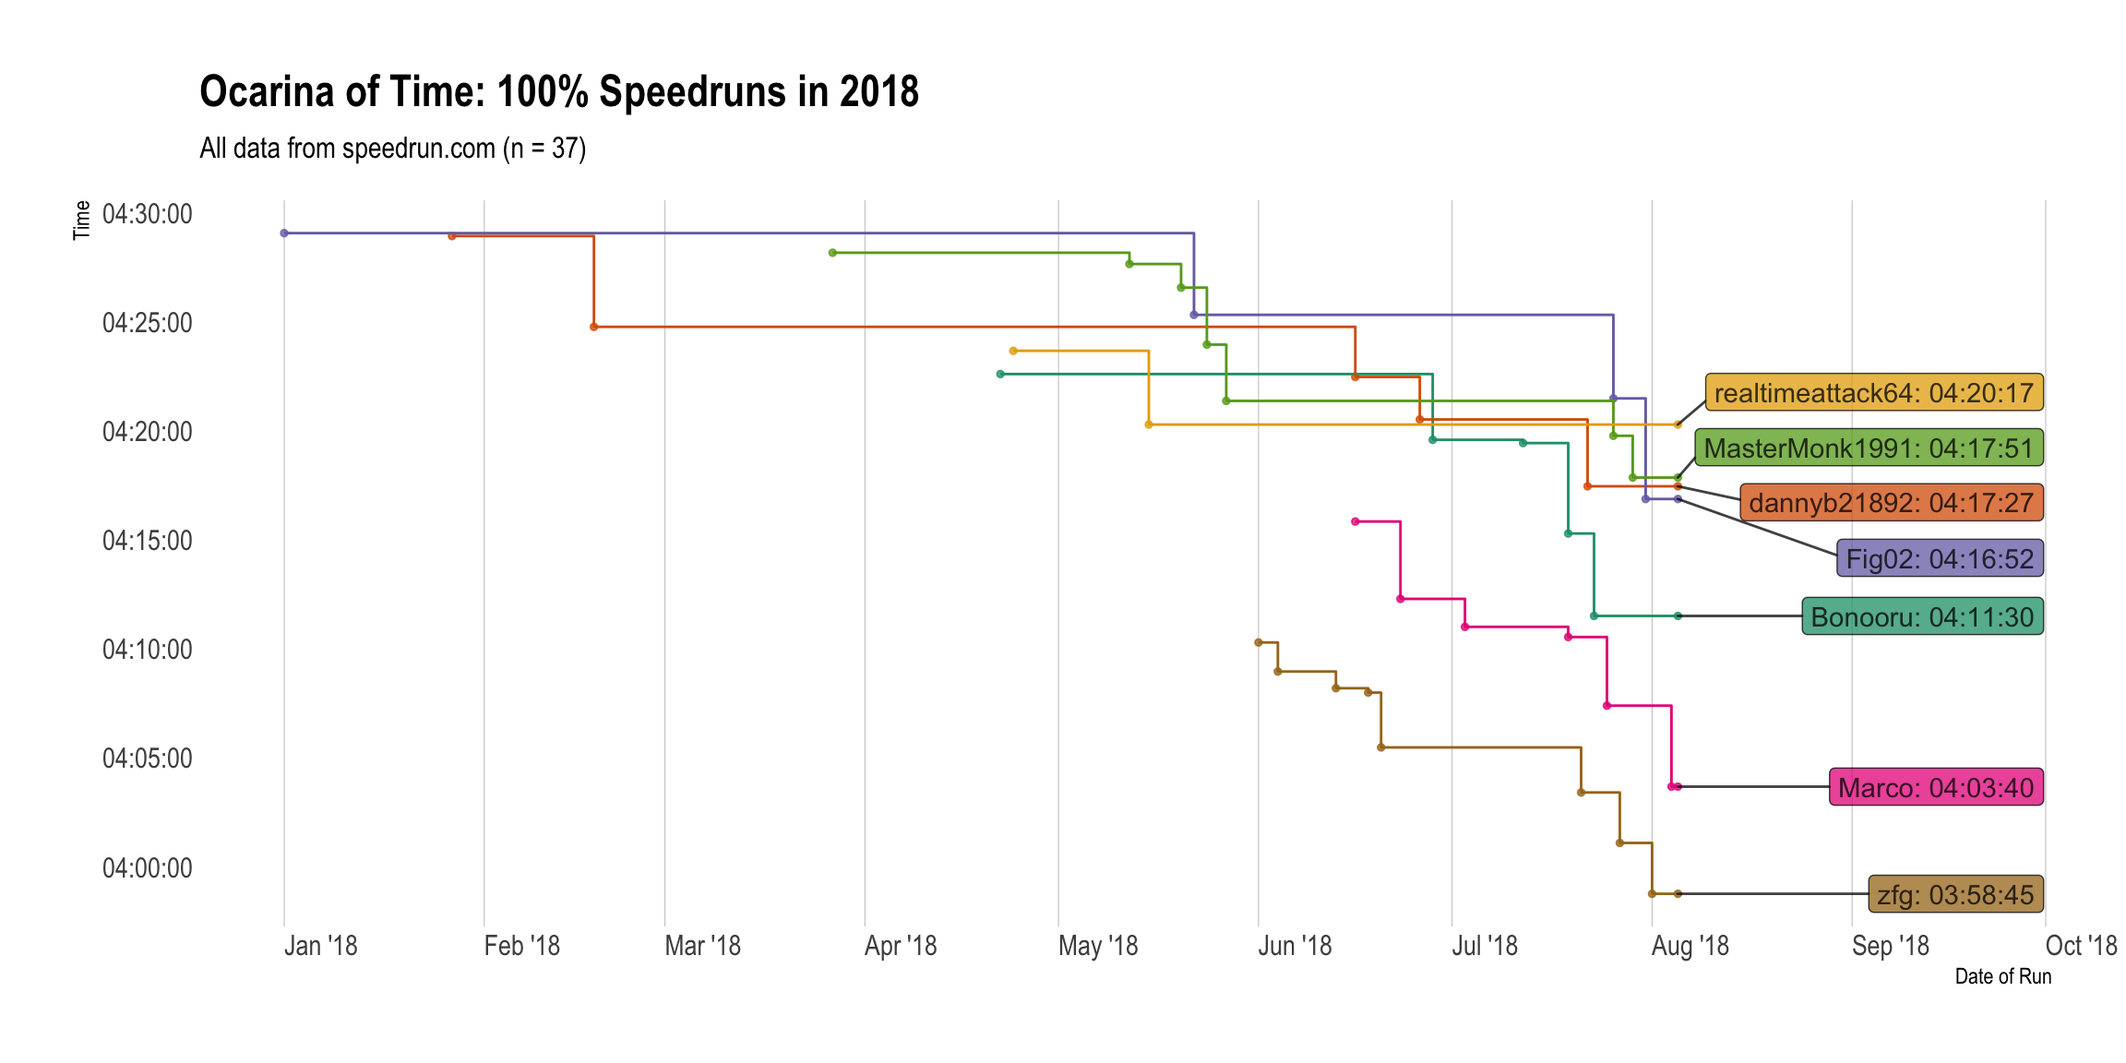
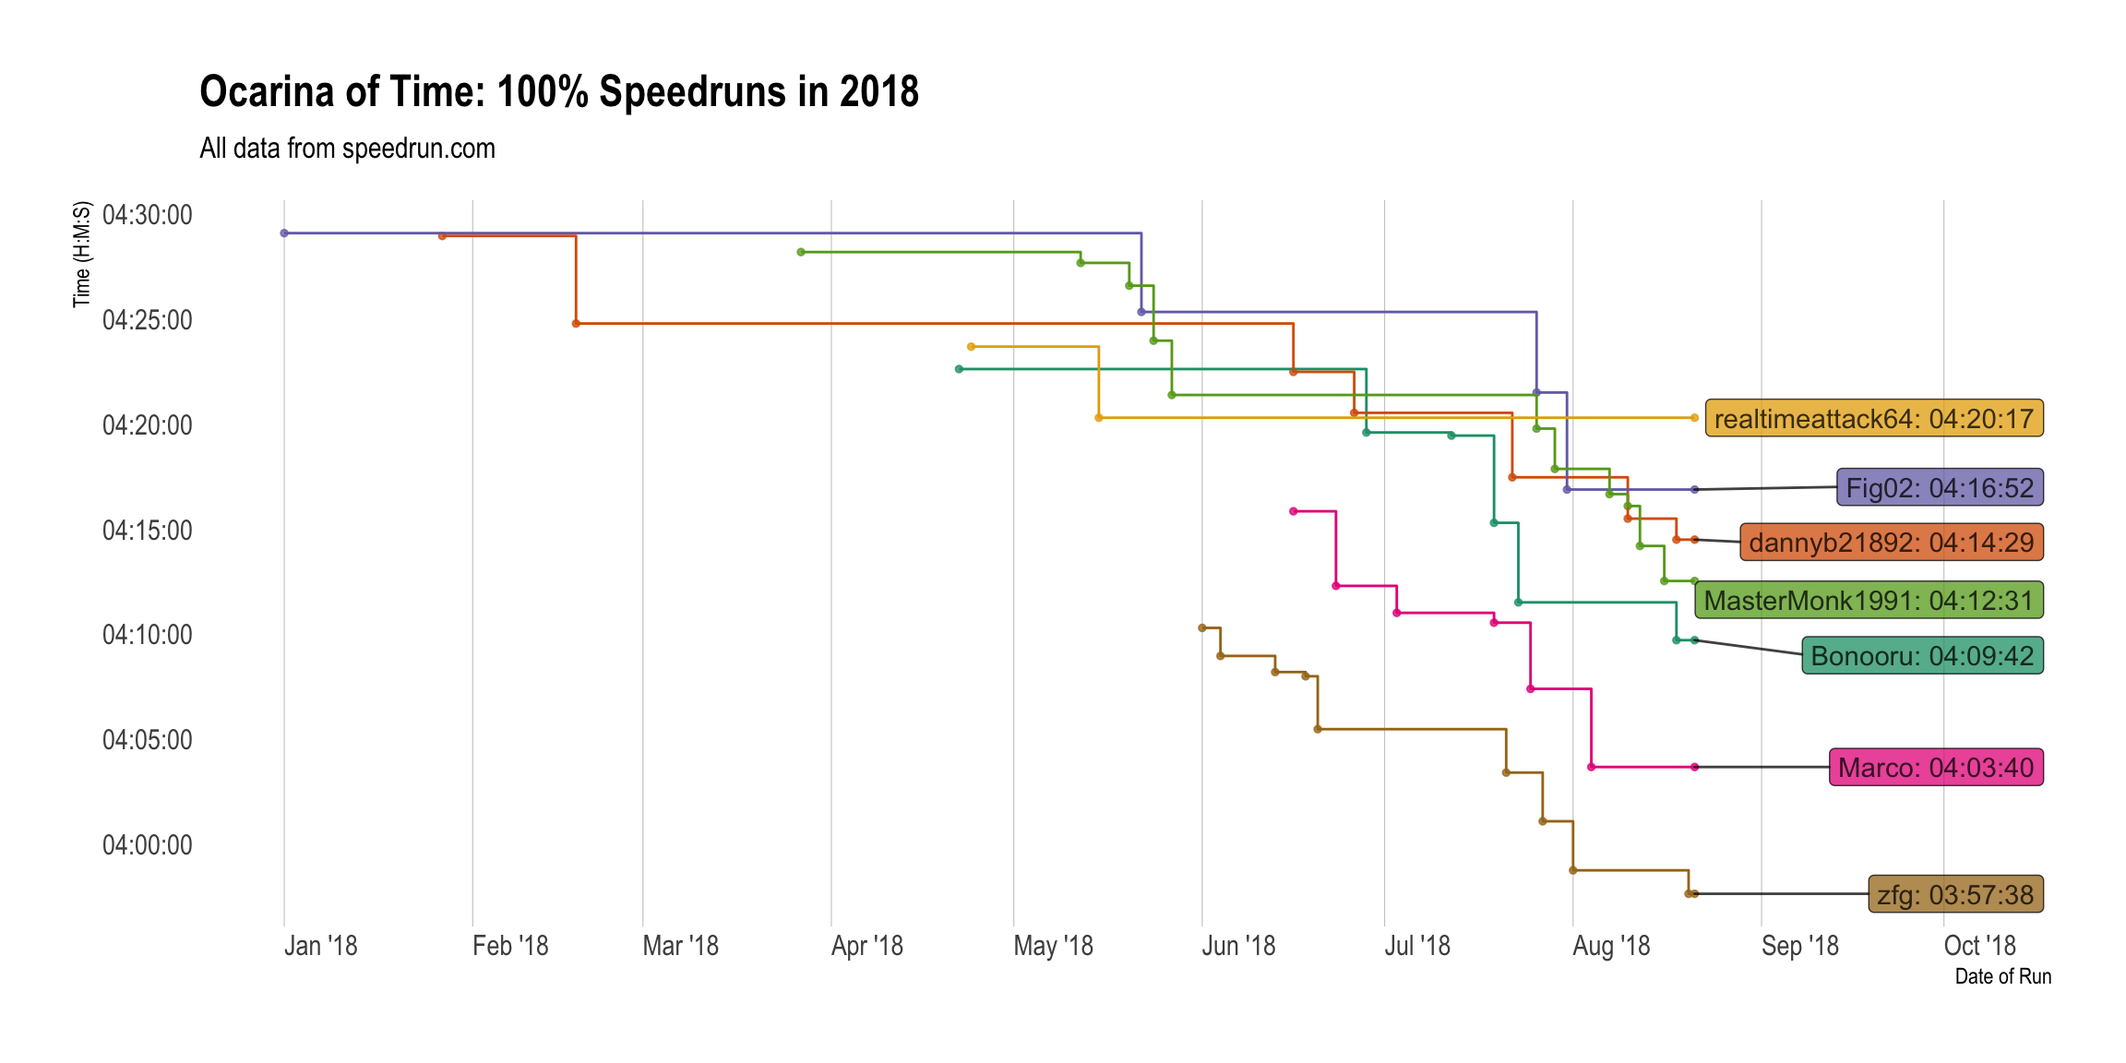
Rebuild everything

diff --git a/docs/articles/ocarina-of-time-100-.html b/docs/articles/ocarina-of-time-100-.html
@@ -82,7 +82,7 @@
       <h1>Ocarina of Time 100%</h1>
                         <h4 class="author">Lukas Burk</h4>
             
-            <h4 class="date">2018-08-05</h4>
+            <h4 class="date">2018-08-21</h4>
       
       <small class="dont-index">Source: <a href="https://github.com/jemus42/speedrunr/blob/master/vignettes/ocarina-of-time-100-.Rmd"><code>vignettes/ocarina-of-time-100-.Rmd</code></a></small>
       <div class="hidden name"><code>ocarina-of-time-100-.Rmd</code></div>
@@ -134,26 +134,26 @@
 <a class="sourceLine" id="cb3-4" data-line-number="4">oot100 &lt;-<span class="st"> </span><span class="kw"><a href="../reference/get_runs.html">get_runs</a></span>(<span class="dt">game =</span> <span class="st">"j1l9qz1g"</span>, <span class="dt">category =</span> <span class="st">"q255jw2o"</span>, <span class="dt">max =</span> <span class="ot">Inf</span>)</a></code></pre></div>
 <p>Note that I’m useing <code>max = Inf</code> to make sure I get <em>all</em> the runs.</p>
 <div class="sourceCode" id="cb4"><pre class="sourceCode r"><code class="sourceCode r"><a class="sourceLine" id="cb4-1" data-line-number="1"><span class="kw">str</span>(oot100)</a>
-<a class="sourceLine" id="cb4-2" data-line-number="2"><span class="co">#&gt; Classes 'tbl_df', 'tbl' and 'data.frame':    505 obs. of  22 variables:</span></a>
-<a class="sourceLine" id="cb4-3" data-line-number="3"><span class="co">#&gt;  $ id             : chr  "y89rqq1m" "y2q5l35y" "m3o52kwm" "y892o4dm" ...</span></a>
-<a class="sourceLine" id="cb4-4" data-line-number="4"><span class="co">#&gt;  $ weblink        : chr  "https://www.speedrun.com/oot/run/y89rqq1m" "https://www.speedrun.com/oot/run/y2q5l35y" "https://www.speedrun.com/oot/run/m3o52kwm" "https://www.speedrun.com/oot/run/y892o4dm" ...</span></a>
+<a class="sourceLine" id="cb4-2" data-line-number="2"><span class="co">#&gt; Classes 'tbl_df', 'tbl' and 'data.frame':    520 obs. of  22 variables:</span></a>
+<a class="sourceLine" id="cb4-3" data-line-number="3"><span class="co">#&gt;  $ id             : chr  "z5101qgm" "y89v3n5m" "zg7x36vz" "y6prk36m" ...</span></a>
+<a class="sourceLine" id="cb4-4" data-line-number="4"><span class="co">#&gt;  $ weblink        : chr  "https://www.speedrun.com/oot/run/z5101qgm" "https://www.speedrun.com/oot/run/y89v3n5m" "https://www.speedrun.com/oot/run/zg7x36vz" "https://www.speedrun.com/oot/run/y6prk36m" ...</span></a>
 <a class="sourceLine" id="cb4-5" data-line-number="5"><span class="co">#&gt;  $ game           : chr  "j1l9qz1g" "j1l9qz1g" "j1l9qz1g" "j1l9qz1g" ...</span></a>
 <a class="sourceLine" id="cb4-6" data-line-number="6"><span class="co">#&gt;  $ level          : logi  NA NA NA NA NA NA ...</span></a>
 <a class="sourceLine" id="cb4-7" data-line-number="7"><span class="co">#&gt;  $ category       : chr  "q255jw2o" "q255jw2o" "q255jw2o" "q255jw2o" ...</span></a>
-<a class="sourceLine" id="cb4-8" data-line-number="8"><span class="co">#&gt;  $ videos         : chr  "https://www.twitch.tv/cma_jp/video/293368527" "https://www.youtube.com/watch?v=KC5nDHK9ipY" "https://www.youtube.com/watch?v=N8vs_cCeekM" "https://youtu.be/tgb6vU3KAgE" ...</span></a>
+<a class="sourceLine" id="cb4-8" data-line-number="8"><span class="co">#&gt;  $ videos         : chr  "https://www.youtube.com/watch?v=zvEndHCMsTI" "https://youtu.be/xbkHEIH64kw" "https://youtu.be/I5XIjPs-WgI" "https://www.twitch.tv/videos/298946749" ...</span></a>
 <a class="sourceLine" id="cb4-9" data-line-number="9"><span class="co">#&gt;  $ status         : chr  "verified" "verified" "verified" "verified" ...</span></a>
-<a class="sourceLine" id="cb4-10" data-line-number="10"><span class="co">#&gt;  $ comment        : chr  "So bad run. 7th dampe" "Video footage was cut during KD's fight, I messed up with OBS while trying to stop my \"footage only\" recordin"| __truncated__ "1st try dampe" "6th dampe, decent fishing" ...</span></a>
-<a class="sourceLine" id="cb4-11" data-line-number="11"><span class="co">#&gt;  $ player_id      : chr  "68wq9z8g" "v819rrxp" "e8e5v680" "zxz9r448" ...</span></a>
-<a class="sourceLine" id="cb4-12" data-line-number="12"><span class="co">#&gt;  $ player_url     : chr  "https://www.speedrun.com/user/Cma" "https://www.speedrun.com/user/Marco" "https://www.speedrun.com/user/zfg" "https://www.speedrun.com/user/Fig02" ...</span></a>
-<a class="sourceLine" id="cb4-13" data-line-number="13"><span class="co">#&gt;  $ player_name    : chr  "Cma" "Marco" "zfg" "Fig02" ...</span></a>
+<a class="sourceLine" id="cb4-10" data-line-number="10"><span class="co">#&gt;  $ comment        : chr  "1st try dampe" "Missed the slash on Ganon, retimed to be 31 seconds, not 29. 6th try Dampe" NA "poop, ill learn jabu ww now" ...</span></a>
+<a class="sourceLine" id="cb4-11" data-line-number="11"><span class="co">#&gt;  $ player_id      : chr  "e8e5v680" "1xym2kmx" "18v6gkvx" "qjn35kwx" ...</span></a>
+<a class="sourceLine" id="cb4-12" data-line-number="12"><span class="co">#&gt;  $ player_url     : chr  "https://www.speedrun.com/user/zfg" "https://www.speedrun.com/user/MasterMonk1991" "https://www.speedrun.com/user/ClaireLynn" "https://www.speedrun.com/user/dannyb21892" ...</span></a>
+<a class="sourceLine" id="cb4-13" data-line-number="13"><span class="co">#&gt;  $ player_name    : chr  "zfg" "MasterMonk1991" "ClaireLynn" "dannyb21892" ...</span></a>
 <a class="sourceLine" id="cb4-14" data-line-number="14"><span class="co">#&gt;  $ player_role    : chr  "user" "user" "user" "user" ...</span></a>
-<a class="sourceLine" id="cb4-15" data-line-number="15"><span class="co">#&gt;  $ player_signup  : POSIXct, format: "2015-02-20 17:09:08" "2015-02-17 18:25:39" ...</span></a>
-<a class="sourceLine" id="cb4-16" data-line-number="16"><span class="co">#&gt;  $ date           : Date, format: "2018-08-05" "2018-08-04" ...</span></a>
-<a class="sourceLine" id="cb4-17" data-line-number="17"><span class="co">#&gt;  $ submitted      : POSIXct, format: "2018-08-05 10:25:56" "2018-08-04 04:03:15" ...</span></a>
-<a class="sourceLine" id="cb4-18" data-line-number="18"><span class="co">#&gt;  $ time_primary   : int  16212 14620 14325 15412 16231 15471 14465 15689 15586 14843 ...</span></a>
-<a class="sourceLine" id="cb4-19" data-line-number="19"><span class="co">#&gt;  $ time_realtime  : int  16212 14620 14325 15412 16231 15471 14465 15689 15586 14843 ...</span></a>
+<a class="sourceLine" id="cb4-15" data-line-number="15"><span class="co">#&gt;  $ player_signup  : POSIXct, format: "2015-02-17 03:55:57" "2017-01-08 21:04:08" ...</span></a>
+<a class="sourceLine" id="cb4-16" data-line-number="16"><span class="co">#&gt;  $ date           : Date, format: "2018-08-20" "2018-08-16" ...</span></a>
+<a class="sourceLine" id="cb4-17" data-line-number="17"><span class="co">#&gt;  $ submitted      : POSIXct, format: "2018-08-21 04:27:10" "2018-08-19 21:35:59" ...</span></a>
+<a class="sourceLine" id="cb4-18" data-line-number="18"><span class="co">#&gt;  $ time_primary   : int  14258 15151 17841 15269 16777 14982 15251 17087 25422 15329 ...</span></a>
+<a class="sourceLine" id="cb4-19" data-line-number="19"><span class="co">#&gt;  $ time_realtime  : int  14258 15151 17841 15269 16777 14982 15251 17087 25422 15329 ...</span></a>
 <a class="sourceLine" id="cb4-20" data-line-number="20"><span class="co">#&gt;  $ time_ingame    : int  0 0 0 0 0 0 0 0 0 0 ...</span></a>
-<a class="sourceLine" id="cb4-21" data-line-number="21"><span class="co">#&gt;  $ time_hms       : 'hms' num  04:30:12 04:03:40 03:58:45 04:16:52 ...</span></a>
+<a class="sourceLine" id="cb4-21" data-line-number="21"><span class="co">#&gt;  $ time_hms       : 'hms' num  03:57:38 04:12:31 04:57:21 04:14:29 ...</span></a>
 <a class="sourceLine" id="cb4-22" data-line-number="22"><span class="co">#&gt;   ..- attr(*, "units")= chr "secs"</span></a>
 <a class="sourceLine" id="cb4-23" data-line-number="23"><span class="co">#&gt;  $ system_platform: chr  "nzelreqp" "nzelreqp" "nzelreqp" "nzelreqp" ...</span></a>
 <a class="sourceLine" id="cb4-24" data-line-number="24"><span class="co">#&gt;  $ system_emulated: logi  FALSE FALSE FALSE FALSE FALSE FALSE ...</span></a>
@@ -182,72 +182,72 @@
 </tr></thead>
 <tbody>
 <tr class="odd">
+<td align="left">03:57:38</td>
+<td align="left">zfg</td>
+<td align="left">2018-08-20</td>
+<td align="left">Wii Virtual Console</td>
+<td align="left">JPN / NTSC</td>
+</tr>
+<tr class="even">
 <td align="left">03:58:45</td>
 <td align="left">zfg</td>
 <td align="left">2018-08-01</td>
 <td align="left">Wii Virtual Console</td>
 <td align="left">JPN / NTSC</td>
 </tr>
-<tr class="even">
+<tr class="odd">
 <td align="left">04:01:05</td>
 <td align="left">zfg</td>
 <td align="left">2018-07-27</td>
 <td align="left">Wii Virtual Console</td>
 <td align="left">JPN / NTSC</td>
 </tr>
-<tr class="odd">
+<tr class="even">
 <td align="left">04:03:24</td>
 <td align="left">zfg</td>
 <td align="left">2018-07-21</td>
 <td align="left">Wii Virtual Console</td>
 <td align="left">JPN / NTSC</td>
 </tr>
-<tr class="even">
+<tr class="odd">
 <td align="left">04:03:40</td>
 <td align="left">Marco</td>
 <td align="left">2018-08-04</td>
 <td align="left">Wii Virtual Console</td>
 <td align="left">JPN / NTSC</td>
 </tr>
-<tr class="odd">
+<tr class="even">
 <td align="left">04:05:28</td>
 <td align="left">zfg</td>
 <td align="left">2018-06-20</td>
 <td align="left">Wii Virtual Console</td>
 <td align="left">JPN / NTSC</td>
 </tr>
-<tr class="even">
+<tr class="odd">
 <td align="left">04:07:23</td>
 <td align="left">Marco</td>
 <td align="left">2018-07-25</td>
 <td align="left">Wii Virtual Console</td>
 <td align="left">JPN / NTSC</td>
 </tr>
-<tr class="odd">
+<tr class="even">
 <td align="left">04:07:59</td>
 <td align="left">zfg</td>
 <td align="left">2018-06-18</td>
 <td align="left">Wii Virtual Console</td>
 <td align="left">JPN / NTSC</td>
 </tr>
-<tr class="even">
+<tr class="odd">
 <td align="left">04:08:11</td>
 <td align="left">zfg</td>
 <td align="left">2018-06-13</td>
 <td align="left">Wii Virtual Console</td>
 <td align="left">JPN / NTSC</td>
 </tr>
-<tr class="odd">
+<tr class="even">
 <td align="left">04:08:57</td>
 <td align="left">zfg</td>
 <td align="left">2018-06-04</td>
-<td align="left">Wii Virtual Console</td>
-<td align="left">JPN / NTSC</td>
-</tr>
-<tr class="even">
-<td align="left">04:10:17</td>
-<td align="left">zfg</td>
-<td align="left">2018-06-01</td>
 <td align="left">Wii Virtual Console</td>
 <td align="left">JPN / NTSC</td>
 </tr>
@@ -317,8 +317,8 @@
 <a class="sourceLine" id="cb7-29" data-line-number="29"><span class="st">      </span><span class="kw"><a href="http://www.rdocumentation.org/packages/ggplot2/topics/scale_brewer">scale_color_brewer</a></span>(<span class="dt">palette =</span> <span class="st">"Dark2"</span>, <span class="dt">guide =</span> F) <span class="op">+</span></a>
 <a class="sourceLine" id="cb7-30" data-line-number="30"><span class="st">      </span><span class="kw"><a href="http://www.rdocumentation.org/packages/ggplot2/topics/scale_brewer">scale_fill_brewer</a></span>(<span class="dt">palette =</span> <span class="st">"Dark2"</span>, <span class="dt">guide =</span> F) <span class="op">+</span></a>
 <a class="sourceLine" id="cb7-31" data-line-number="31"><span class="st">      </span><span class="kw"><a href="http://www.rdocumentation.org/packages/ggplot2/topics/labs">labs</a></span>(<span class="dt">title =</span> <span class="st">"Ocarina of Time: 100% Speedruns in 2018"</span>,</a>
-<a class="sourceLine" id="cb7-32" data-line-number="32">           <span class="dt">subtitle =</span> <span class="kw">paste0</span>(<span class="st">"All data from speedrun.com (n = "</span>, <span class="kw">nrow</span>(tmp), <span class="st">")"</span>),</a>
-<a class="sourceLine" id="cb7-33" data-line-number="33">           <span class="dt">x =</span> <span class="st">"Date of Run"</span>, <span class="dt">y =</span> <span class="st">"Time"</span>) <span class="op">+</span></a>
+<a class="sourceLine" id="cb7-32" data-line-number="32">           <span class="dt">subtitle =</span> <span class="st">"All data from speedrun.com"</span>,</a>
+<a class="sourceLine" id="cb7-33" data-line-number="33">           <span class="dt">x =</span> <span class="st">"Date of Run"</span>, <span class="dt">y =</span> <span class="st">"Time (H:M:S)"</span>) <span class="op">+</span></a>
 <a class="sourceLine" id="cb7-34" data-line-number="34"><span class="st">      </span><span class="kw"><a href="http://www.rdocumentation.org/packages/hrbrthemes/topics/theme_ipsum">theme_ipsum</a></span>(<span class="dt">grid =</span> <span class="st">"X"</span>) <span class="op">+</span><span class="st"> </span><span class="kw"><a href="http://www.rdocumentation.org/packages/ggplot2/topics/theme">theme</a></span>(<span class="dt">axis.text.x =</span> <span class="kw"><a href="http://www.rdocumentation.org/packages/ggplot2/topics/element">element_text</a></span>(<span class="dt">hjust =</span> <span class="dv">0</span>))</a>
 <a class="sourceLine" id="cb7-35" data-line-number="35">  }</a></code></pre></div>
 <p><img src="ocarina-of-time-100-_files/figure-html/oot_100_recents-1.png" width="1152"></p>

diff --git a/docs/index.html b/docs/index.html
@@ -5,13 +5,13 @@
 <meta charset="utf-8">
 <meta http-equiv="X-UA-Compatible" content="IE=edge">
 <meta name="viewport" content="width=device-width, initial-scale=1.0">
-<title>Access Data From 'speedrun.com' • speedrunr</title>
+<title>Access Data from 'speedrun.com' • speedrunr</title>
 <!-- jquery --><script src="https://code.jquery.com/jquery-3.1.0.min.js" integrity="sha384-nrOSfDHtoPMzJHjVTdCopGqIqeYETSXhZDFyniQ8ZHcVy08QesyHcnOUpMpqnmWq" crossorigin="anonymous"></script><!-- Bootstrap --><link href="https://maxcdn.bootstrapcdn.com/bootstrap/3.3.7/css/bootstrap.min.css" rel="stylesheet" integrity="sha384-BVYiiSIFeK1dGmJRAkycuHAHRg32OmUcww7on3RYdg4Va+PmSTsz/K68vbdEjh4u" crossorigin="anonymous">
 <script src="https://maxcdn.bootstrapcdn.com/bootstrap/3.3.7/js/bootstrap.min.js" integrity="sha384-Tc5IQib027qvyjSMfHjOMaLkfuWVxZxUPnCJA7l2mCWNIpG9mGCD8wGNIcPD7Txa" crossorigin="anonymous"></script><!-- Font Awesome icons --><link href="https://maxcdn.bootstrapcdn.com/font-awesome/4.6.3/css/font-awesome.min.css" rel="stylesheet" integrity="sha384-T8Gy5hrqNKT+hzMclPo118YTQO6cYprQmhrYwIiQ/3axmI1hQomh7Ud2hPOy8SP1" crossorigin="anonymous">
 <!-- clipboard.js --><script src="https://cdnjs.cloudflare.com/ajax/libs/clipboard.js/1.7.1/clipboard.min.js" integrity="sha384-cV+rhyOuRHc9Ub/91rihWcGmMmCXDeksTtCihMupQHSsi8GIIRDG0ThDc3HGQFJ3" crossorigin="anonymous"></script><!-- sticky kit --><script src="https://cdnjs.cloudflare.com/ajax/libs/sticky-kit/1.1.3/sticky-kit.min.js" integrity="sha256-c4Rlo1ZozqTPE2RLuvbusY3+SU1pQaJC0TjuhygMipw=" crossorigin="anonymous"></script><!-- pkgdown --><link href="pkgdown.css" rel="stylesheet">
-<script src="pkgdown.js"></script><meta property="og:title" content="Access Data From 'speedrun.com'">
-<meta property="og:description" content="This package provides wrappers for the 'speedrun.com' API to make it easier to identify
-    the ids of games and categories which are required to access run data.">
+<script src="pkgdown.js"></script><meta property="og:title" content="Access Data from 'speedrun.com'">
+<meta property="og:description" content="Wrappers for the 'speedrun.com' API to make it easy
+    to access run data.">
 <meta name="twitter:card" content="summary">
 <!-- mathjax --><script src="https://mathjax.rstudio.com/latest/MathJax.js?config=TeX-AMS-MML_HTMLorMML"></script><!--[if lt IE 9]>
 <script src="https://oss.maxcdn.com/html5shiv/3.7.3/html5shiv.min.js"></script>
@@ -330,49 +330,59 @@ Let’s get started:</p>
 </tr></thead>
 <tbody>
 <tr class="odd">
+<td align="left">2018-08-21 04:27:10</td>
+<td align="left">03:57:38</td>
+<td align="left"><a href="https://www.speedrun.com/user/zfg" class="uri">https://www.speedrun.com/user/zfg</a></td>
+</tr>
+<tr class="even">
 <td align="left">2018-08-02 02:15:56</td>
 <td align="left">03:58:45</td>
 <td align="left"><a href="https://www.speedrun.com/user/zfg" class="uri">https://www.speedrun.com/user/zfg</a></td>
 </tr>
-<tr class="even">
+<tr class="odd">
 <td align="left">2018-07-28 05:47:32</td>
 <td align="left">04:01:05</td>
 <td align="left"><a href="https://www.speedrun.com/user/zfg" class="uri">https://www.speedrun.com/user/zfg</a></td>
 </tr>
-<tr class="odd">
+<tr class="even">
 <td align="left">2018-07-22 03:15:39</td>
 <td align="left">04:03:24</td>
 <td align="left"><a href="https://www.speedrun.com/user/zfg" class="uri">https://www.speedrun.com/user/zfg</a></td>
 </tr>
-<tr class="even">
+<tr class="odd">
 <td align="left">2018-08-04 04:03:15</td>
 <td align="left">04:03:40</td>
 <td align="left"><a href="https://www.speedrun.com/user/Marco" class="uri">https://www.speedrun.com/user/Marco</a></td>
 </tr>
-<tr class="odd">
+<tr class="even">
 <td align="left">2018-06-21 02:28:51</td>
 <td align="left">04:05:28</td>
 <td align="left"><a href="https://www.speedrun.com/user/zfg" class="uri">https://www.speedrun.com/user/zfg</a></td>
 </tr>
-<tr class="even">
+<tr class="odd">
 <td align="left">2018-07-25 04:07:52</td>
 <td align="left">04:07:23</td>
 <td align="left"><a href="https://www.speedrun.com/user/Marco" class="uri">https://www.speedrun.com/user/Marco</a></td>
 </tr>
-<tr class="odd">
+<tr class="even">
 <td align="left">2018-06-19 05:20:57</td>
 <td align="left">04:07:59</td>
 <td align="left"><a href="https://www.speedrun.com/user/zfg" class="uri">https://www.speedrun.com/user/zfg</a></td>
 </tr>
-<tr class="even">
+<tr class="odd">
 <td align="left">2018-06-14 04:01:53</td>
 <td align="left">04:08:11</td>
 <td align="left"><a href="https://www.speedrun.com/user/zfg" class="uri">https://www.speedrun.com/user/zfg</a></td>
 </tr>
-<tr class="odd">
+<tr class="even">
 <td align="left">2018-06-05 03:41:59</td>
 <td align="left">04:08:57</td>
 <td align="left"><a href="https://www.speedrun.com/user/zfg" class="uri">https://www.speedrun.com/user/zfg</a></td>
+</tr>
+<tr class="odd">
+<td align="left">2018-08-18 03:12:47</td>
+<td align="left">04:09:42</td>
+<td align="left"><a href="https://www.speedrun.com/user/Bonooru" class="uri">https://www.speedrun.com/user/Bonooru</a></td>
 </tr>
 <tr class="even">
 <td align="left">2018-06-02 03:35:41</td>
@@ -410,24 +420,14 @@ Let’s get started:</p>
 <td align="left"><a href="https://www.speedrun.com/user/Marco" class="uri">https://www.speedrun.com/user/Marco</a></td>
 </tr>
 <tr class="odd">
-<td align="left">2018-07-19 23:30:26</td>
-<td align="left">04:15:17</td>
-<td align="left"><a href="https://www.speedrun.com/user/Bonooru" class="uri">https://www.speedrun.com/user/Bonooru</a></td>
+<td align="left">2018-08-19 21:35:59</td>
+<td align="left">04:12:31</td>
+<td align="left"><a href="https://www.speedrun.com/user/MasterMonk1991" class="uri">https://www.speedrun.com/user/MasterMonk1991</a></td>
 </tr>
 <tr class="even">
-<td align="left">2018-06-16 04:07:34</td>
-<td align="left">04:15:50</td>
-<td align="left"><a href="https://www.speedrun.com/user/Marco" class="uri">https://www.speedrun.com/user/Marco</a></td>
-</tr>
-<tr class="odd">
-<td align="left">2018-08-01 04:07:29</td>
-<td align="left">04:16:52</td>
-<td align="left"><a href="https://www.speedrun.com/user/Fig02" class="uri">https://www.speedrun.com/user/Fig02</a></td>
-</tr>
-<tr class="even">
-<td align="left">2018-07-23 01:22:52</td>
-<td align="left">04:17:27</td>
-<td align="left"><a href="https://www.speedrun.com/user/dannyb21892" class="uri">https://www.speedrun.com/user/dannyb21892</a></td>
+<td align="left">2018-08-13 04:23:12</td>
+<td align="left">04:14:11</td>
+<td align="left"><a href="https://www.speedrun.com/user/MasterMonk1991" class="uri">https://www.speedrun.com/user/MasterMonk1991</a></td>
 </tr>
 </tbody>
 </table>
@@ -535,19 +535,9 @@ Let’s get started:</p>
 </tr></thead>
 <tbody>
 <tr class="odd">
-<td align="right">18841</td>
+<td align="right">15060</td>
 <td align="left">JPN / NTSC</td>
-<td align="left">Nintendo 64</td>
-</tr>
-<tr class="even">
-<td align="right">17671</td>
-<td align="left">JPN / NTSC</td>
-<td align="left">Nintendo 64</td>
-</tr>
-<tr class="odd">
-<td align="right">19913</td>
-<td align="left">JPN / NTSC</td>
-<td align="left">Nintendo 64</td>
+<td align="left">Wii Virtual Console</td>
 </tr>
 <tr class="even">
 <td align="right">15032</td>
@@ -555,7 +545,17 @@ Let’s get started:</p>
 <td align="left">Wii Virtual Console</td>
 </tr>
 <tr class="odd">
-<td align="right">16136</td>
+<td align="right">15269</td>
+<td align="left">JPN / NTSC</td>
+<td align="left">Wii Virtual Console</td>
+</tr>
+<tr class="even">
+<td align="right">18431</td>
+<td align="left">JPN / NTSC</td>
+<td align="left">Wii Virtual Console</td>
+</tr>
+<tr class="odd">
+<td align="right">14891</td>
 <td align="left">JPN / NTSC</td>
 <td align="left">Wii Virtual Console</td>
 </tr>
